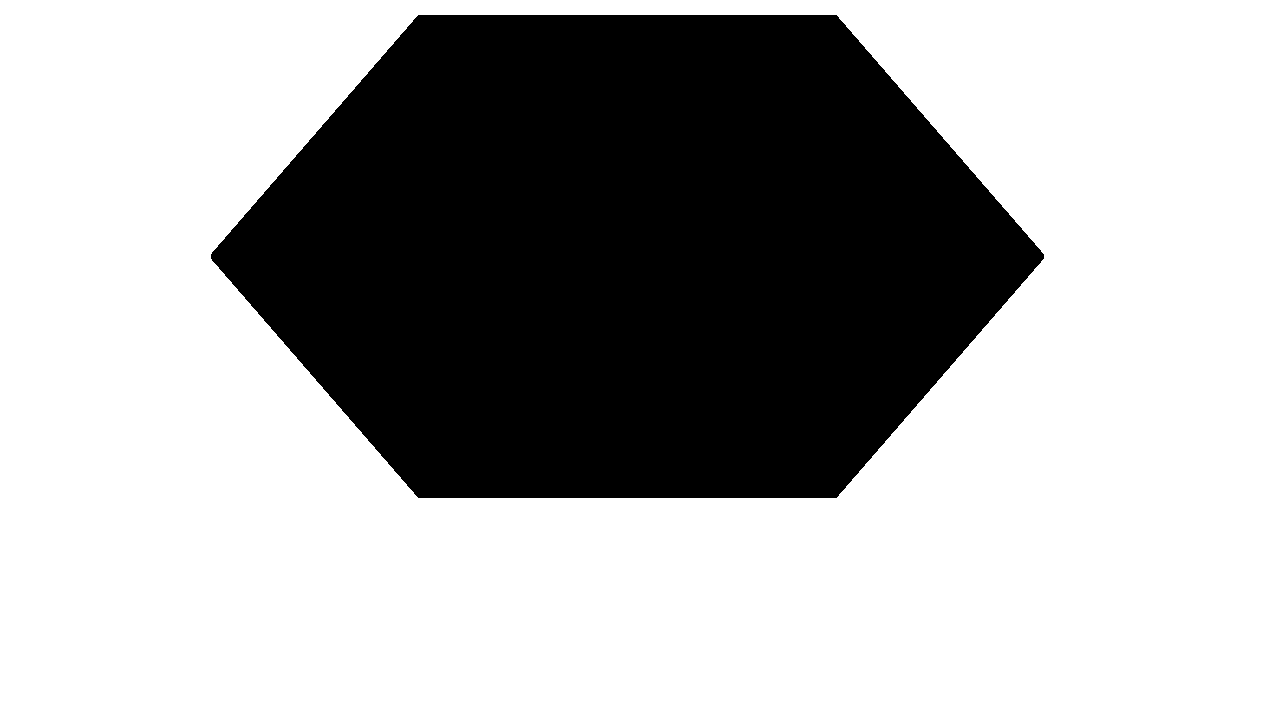
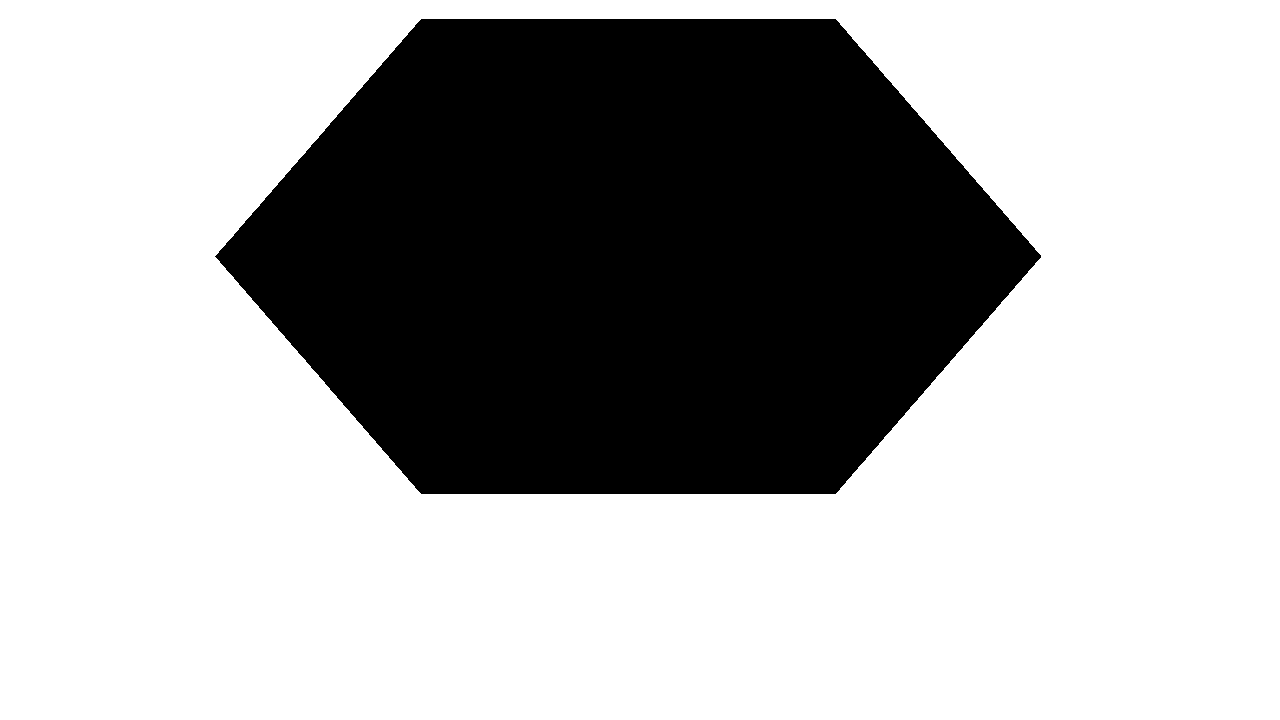
Sprite trimmer script, various fixes

diff --git a/src/scripts/sprite_trim.py b/src/scripts/sprite_trim.py
@@ -1,0 +1,94 @@
+"""Summary
+
+Attributes:
+    indir (str): Description
+    outdir (str): Description
+    patchmode_default (str): Description
+    rpy_preamble (TYPE): Description
+    SEP (str): Description
+"""
+from PIL import Image
+from PIL import ImageChops
+import shutil
+# from PIL import ImageChops
+import os
+import glob
+import math
+import sys
+
+# N.B. Unlike most other scripts, this requires Python 3.8.
+# If you run this with an outdated python version, you will get a SyntaxError.
+# This script is entirely optional.
+
+
+def distance(t1, t2):
+    """Returns the distance between two points in n-dimensional space.
+    Used for determining the difference between two RGBA colors.
+    Coordinate length must match.
+    
+    Args:
+        t1 (tuple): Coordinates
+        t2 (tuple): Coordinates
+    
+    Returns:
+        float: Distance
+    """
+    e2 = 0
+    for a, b in zip(t1, t2):
+        e2 += (a - b) ** 2
+    return math.sqrt(e2)
+        
+
+def spriteTrim(pngpath):
+    png_dir, png_filename = os.path.split(pngpath)
+    png_plainname, png_ext = os.path.splitext(png_filename)
+    print(png_plainname)
+
+    sprite_image = Image.open(pngpath).convert('RGBA')
+
+    bbox_orig = (0, 0, *sprite_image.size)
+    bbox_real = sprite_image.getbbox()
+
+    if bbox_orig == bbox_real:
+        # Clean transparency
+        pixdata = sprite_image.load()
+        if pixdata[0, 0] != (0, 0, 0, 0):
+            for y in range(sprite_image.size[1]):
+                for x in range(sprite_image.size[0]):
+                    if pixdata[x, y][3] == 0:
+                        pixdata[x, y] = (0, 0, 0, 0)
+        bbox_real = sprite_image.getbbox()
+        if bbox_orig == bbox_real:
+            return
+        
+    bakpath = os.path.join(png_dir, f"{png_plainname}{png_ext}.bak")
+    if not os.path.isfile(bakpath):
+        shutil.copy2(pngpath, bakpath)
+
+    bbox_mirrored = (
+        min(bbox_real[0], bbox_orig[2] - bbox_real[2]),
+        bbox_real[1],
+        max(bbox_real[2], bbox_orig[3] - bbox_real[3]),
+        bbox_orig[3]
+    )
+
+    if bbox_orig == bbox_mirrored:
+        return
+    
+    print(bbox_orig)
+    print(bbox_real)
+    print(bbox_mirrored)
+    # (454, 42, 938, 720)
+    # (342, 43, 938, 720)
+
+    bounded_image = sprite_image.crop(bbox_mirrored)
+    bounded_image.save(pngpath)
+
+    globals().update(locals())
+
+    return 
+
+if __name__ == '__main__':
+    indir = sys.argv[1]
+    for pngpath in glob.glob(os.path.join(indir, "*.png")):
+        spriteTrim(pngpath)

diff --git a/src/scripts/rpydiff.py b/src/scripts/rpydiff.py
@@ -273,7 +273,7 @@ def rpyDefineComposite(char_name, base_pose, updated_pose, patch):
         TYPE: Description
     """
     return f"""
-image {char_name} {patch.expression} = Composite(
+image !{char_name} {patch.expression} = Composite(
     {base_pose.getImage().size},
     (0, 0), "{spriteLocation(char_name)}{base_pose.file_orig}",
     ({patch.x}, {patch.y}), "{spriteLocation(char_name)}{patch.filename}"
@@ -296,12 +296,12 @@ def rpyDefinePassthrough(char_name, base_pose, updated_pose, patch):
     if updated_pose:
         shutil.copy2(updated_pose.file, outdir)
         return f"""
-image {char_name} {patch.expression} = "{spriteLocation(char_name)}{updated_pose.file_orig}"
+image !{char_name} {patch.expression} = "{spriteLocation(char_name)}{updated_pose.file_orig}"
 """
     else:
         shutil.copy2(base_pose.file, outdir)
         return f"""
-image {char_name} {base_pose.expression} = "{spriteLocation(char_name)}{base_pose.file_orig}"
+image !{char_name} {base_pose.expression} = "{spriteLocation(char_name)}{base_pose.file_orig}"
 """
 
 
@@ -318,7 +318,7 @@ def rpyDefineNodiff(char_name, base_pose, updated_pose, patch):
         TYPE: Description
     """
     return f"""
-image {char_name} {updated_pose.expression} = "{spriteLocation(char_name)}{base_pose.file_orig}"
+image !{char_name} {updated_pose.expression} = "{spriteLocation(char_name)}{base_pose.file_orig}"
 """
 
 

diff --git a/src/patcher.py b/src/patcher.py
@@ -259,7 +259,7 @@ def main(argstr=None):
                     logger.info("Some packages removed")
                     args.clean = True
                 else:
-                    logger.error("Package selections unchanged")
+                    logger.info("Package selections unchanged")
                     args.clean = False or args.clean
             except json.decoder.JSONDecodeError:
                 logger.error("Can't read old packagelist")
@@ -267,7 +267,7 @@ def main(argstr=None):
         else:
             logger.error("Missing old packagelist")
             args.clean = True
-        
+
         with open(packagelist_path, "w") as fp:
             json.dump(new_packagelist, fp)
         
